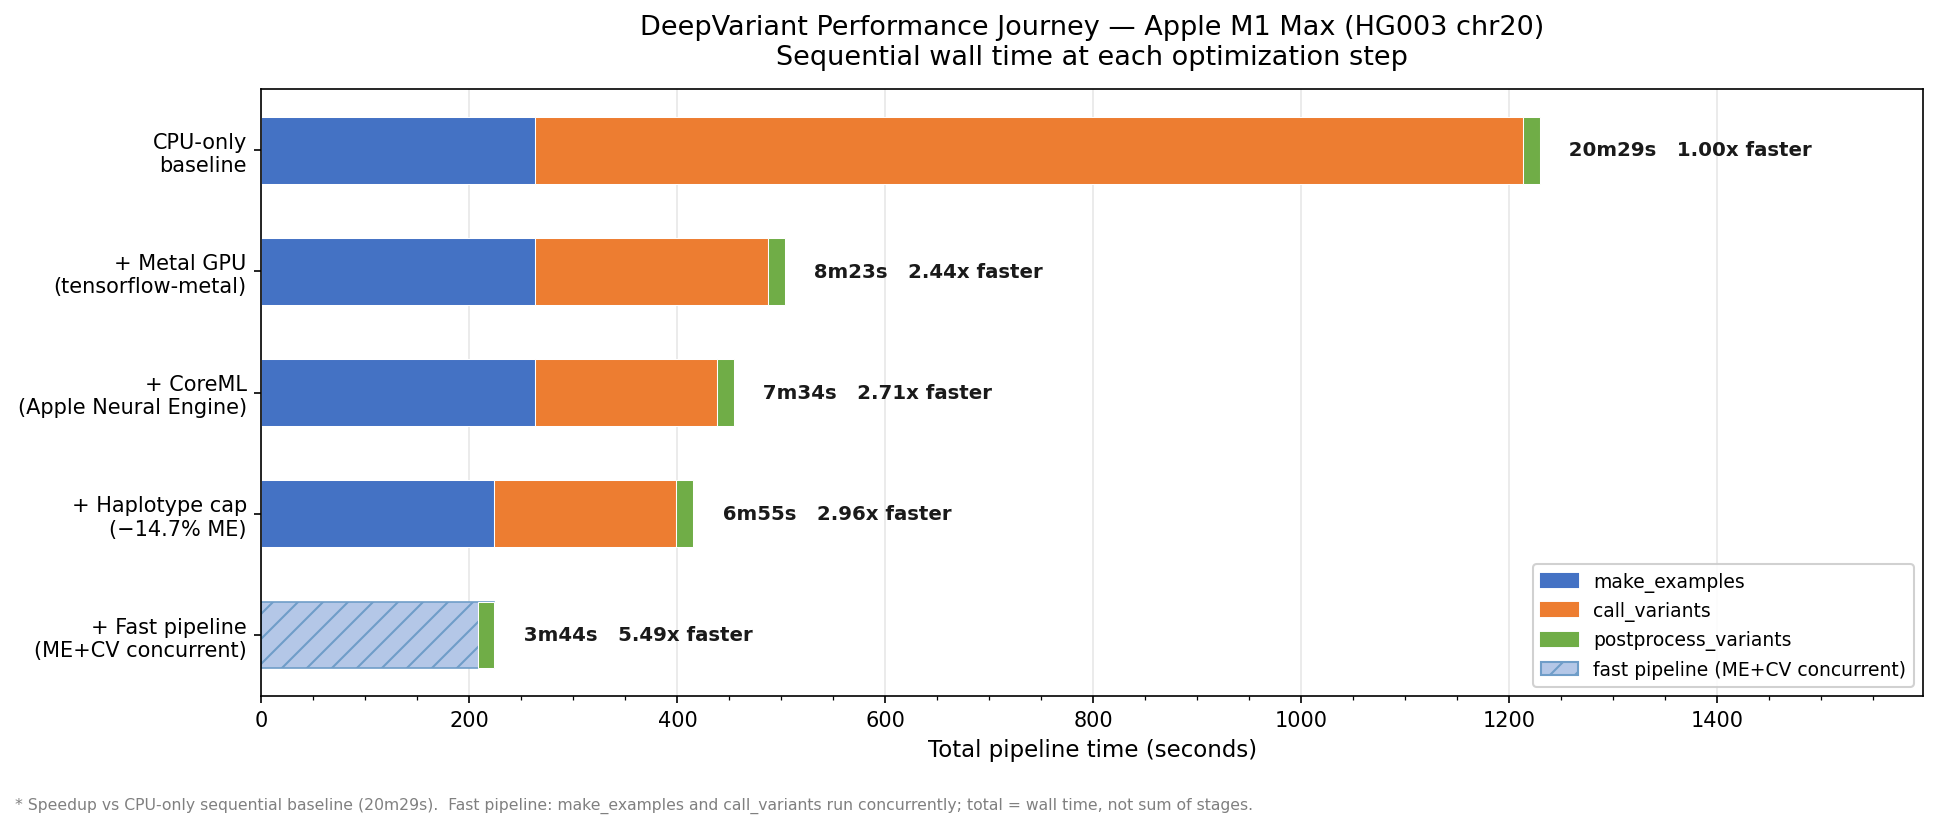
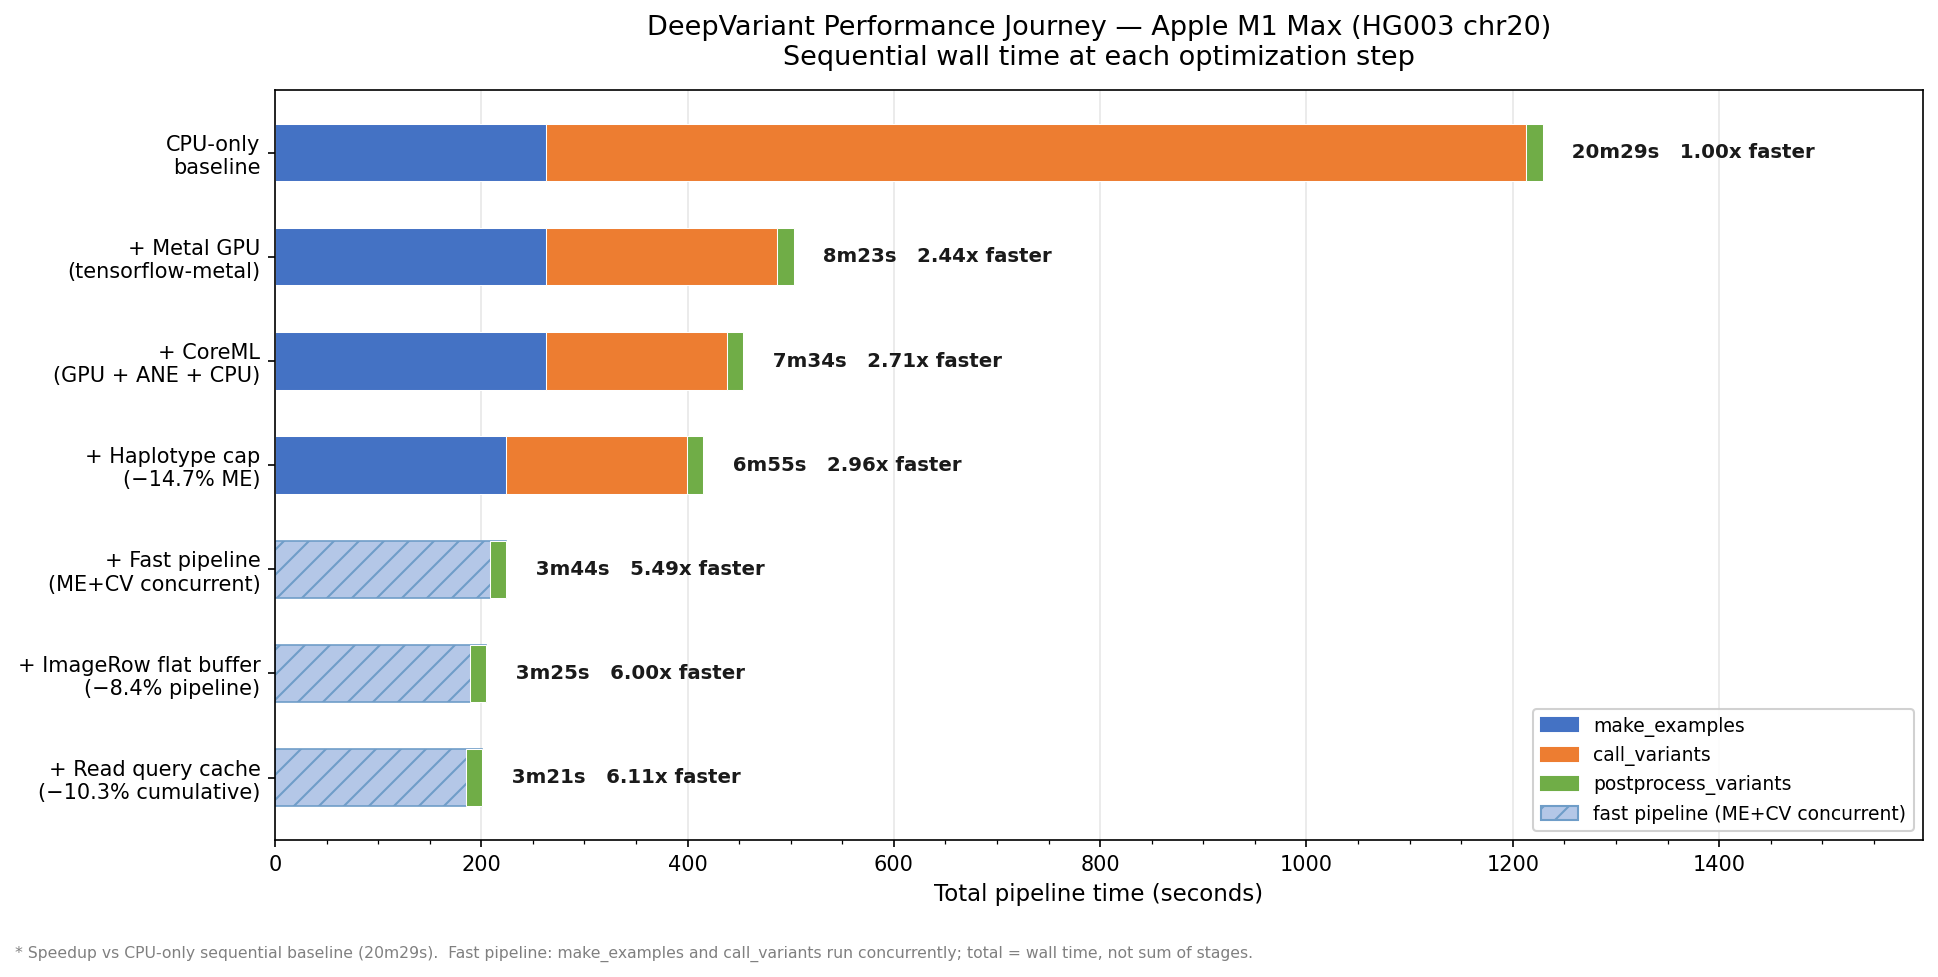
Update README charts with P1-B and P1-E optimization steps
Regenerate all three charts to include steps 5 (ImageRow flat buffer)
and 6 (read query cache). Platform comparison now shows 201s fast
pipeline total (6.11x vs CPU-only baseline).

[infra]

diff --git a/scripts/generate_readme_charts.py b/scripts/generate_readme_charts.py
@@ -33,14 +33,15 @@ import numpy as np
 STEPS = [
     {"label": "CPU-only\nbaseline",                 "me": 263, "cv": 950, "pp": 16, "fp": False},
     {"label": "+ Metal GPU\n(tensorflow-metal)",     "me": 263, "cv": 224, "pp": 16, "fp": False},
-    {"label": "+ CoreML\n(GPU + Neural Engine)",      "me": 263, "cv": 175, "pp": 16, "fp": False},
+    {"label": "+ CoreML\n(GPU + ANE + CPU)",          "me": 263, "cv": 175, "pp": 16, "fp": False},
     {"label": "+ Haplotype cap\n(−14.7% ME)",        "me": 224, "cv": 175, "pp": 16, "fp": False},
-    {"label": "+ Fast pipeline\n(ME+CV concurrent)", "me": 224, "cv": 175, "pp": 16, "fp": True},
+    {"label": "+ Fast pipeline\n(ME+CV concurrent)", "me": 224, "cv": 175, "pp": 16, "fp": True, "fp_total": 224},
+    {"label": "+ ImageRow flat buffer\n(−8.4% pipeline)", "me": 205, "cv": 175, "pp": 16, "fp": True, "fp_total": 205},
+    {"label": "+ Read query cache\n(−10.3% cumulative)", "me": 201, "cv": 175, "pp": 16, "fp": True, "fp_total": 201},
 ]
 
-# Measured total wall time for the fast pipeline + CoreML + haplotype cap run.
-# Filled in from benchmark.sh --use-coreml --fast-pipeline after the haplotype cap commit.
-FAST_PIPELINE_TOTAL = 224  # seconds (measured: benchmark.sh --use-coreml --fast-pipeline, post-haplotype-cap)
+# Default fast pipeline total (used when step lacks fp_total field).
+FAST_PIPELINE_TOTAL = 201  # seconds (measured: benchmark.sh after P1-B + P1-E optimizations)
 
 # CPU-only sequential total (used as speedup denominator)
 CPU_ONLY_TOTAL = STEPS[0]["me"] + STEPS[0]["cv"] + STEPS[0]["pp"]  # 1229s
@@ -109,20 +110,21 @@ def format_time(seconds):
 def plot_optimization_waterfall(output_path, show=False, dpi=150):
     """Stacked horizontal bars showing cumulative optimization journey."""
     n = len(STEPS)
-    fig, ax = plt.subplots(figsize=(13, 5.5))
+    fig, ax = plt.subplots(figsize=(13, 6.5))
     bar_height = 0.55
 
     for i, step in enumerate(STEPS):
         if step["fp"]:
+            fp_total = step.get("fp_total", FAST_PIPELINE_TOTAL)
             # Fast pipeline: single hatched bar for the measured wall time
-            ax.barh(i, FAST_PIPELINE_TOTAL, bar_height,
+            ax.barh(i, fp_total, bar_height,
                     color=COLOR_FP, hatch="//", edgecolor="#6F9DC8", linewidth=0.8,
                     label="ME + CV (concurrent)" if i == n - 1 else None)
             # Postprocess segment at the far right (always sequential)
             ax.barh(i, step["pp"], bar_height,
-                    left=FAST_PIPELINE_TOTAL - step["pp"],
+                    left=fp_total - step["pp"],
                     color=COLOR_PP, edgecolor="white", linewidth=0.5)
-            total = FAST_PIPELINE_TOTAL
+            total = fp_total
         else:
             total = step["me"] + step["cv"] + step["pp"]
             ax.barh(i, step["me"], bar_height, color=COLOR_ME,
@@ -191,14 +193,15 @@ def plot_optimization_waterfall(output_path, show=False, dpi=150):
 def plot_platform_comparison(output_path, show=False, dpi=150):
     """Horizontal bar chart: M1 Max vs GCP — includes measured L4 GPU data."""
     m1_sequential = STEPS[3]["me"] + STEPS[3]["cv"] + STEPS[3]["pp"]  # 415s
+    m1_fp_total = STEPS[-1].get("fp_total", FAST_PIPELINE_TOTAL)  # latest fast pipeline total
 
     # Ordered fastest → slowest (top → bottom when axis is inverted)
     platforms = [
         # (label, seconds, color, style, annotation)
         ("GCP n2-standard-96\n(96 vCPU, 12× cores, sequential)",
          GCP_96_CHR20, "#95A5A6", "normal", "12× more cores"),
-        ("Apple M1 Max — fast pipeline\n(CoreML + haplotype cap)",
-         FAST_PIPELINE_TOTAL, "#2ECC71", "bold", None),
+        ("Apple M1 Max — fast pipeline\n(CoreML + hap cap + flat buffer + query cache)",
+         m1_fp_total, "#2ECC71", "bold", None),
         ("Apple M1 Max — sequential\n(CoreML + haplotype cap)",
          m1_sequential, "#3498DB", "normal", None),
         ("GCP Cloud Run + L4 GPU\n(8 vCPU, 24 GB VRAM) ★ DIRECTLY MEASURED",
@@ -230,10 +233,10 @@ def plot_platform_comparison(output_path, show=False, dpi=150):
     fp_idx = 1  # fast pipeline row index
     seq_idx = 2  # sequential row index
     l4_idx  = 3  # L4 GPU row index
-    speedup_fp  = GCP_16_CHR20_MEASURED / FAST_PIPELINE_TOTAL   # 3.88×
-    speedup_seq = GCP_16_CHR20_MEASURED / m1_sequential          # 2.09×
-    speedup_l4  = GCP_L4_TOTAL / FAST_PIPELINE_TOTAL             # M1 vs L4 total
-    speedup_gpu = GCP_16_GPU_EST / FAST_PIPELINE_TOTAL           # M1 vs P100 est.
+    speedup_fp  = GCP_16_CHR20_MEASURED / m1_fp_total              # 4.32×
+    speedup_seq = GCP_16_CHR20_MEASURED / m1_sequential            # 2.09×
+    speedup_l4  = GCP_L4_TOTAL / m1_fp_total                       # M1 vs L4 total
+    speedup_gpu = GCP_16_GPU_EST / m1_fp_total                     # M1 vs P100 est.
 
     # Callout box — placed to the right of the M1 Max fast pipeline bar at the same row.
     # xlim is expanded to 1.55× GCP-CPU to give enough room for the box without crowding.
@@ -241,7 +244,7 @@ def plot_platform_comparison(output_path, show=False, dpi=150):
         f"  {speedup_fp:.2f}× faster than GCP 16-vCPU (measured)\n"
         f"  {speedup_l4:.2f}× faster than GCP L4 GPU (measured)\n"
         f"  {speedup_gpu:.2f}× faster than GCP P100 GPU (est.)",
-        xy=(FAST_PIPELINE_TOTAL, fp_idx),
+        xy=(m1_fp_total, fp_idx),
         xytext=(GCP_16_CHR20_MEASURED * 0.62, fp_idx),
         fontsize=8.5, fontweight="bold", color="#155724",
         va="center",
@@ -304,7 +307,7 @@ GCP_L4_TIME_S    = 584       # measured
 GCP_L4_PER_SAMPLE = (8 * 0.000080 + 32 * 0.0000090 + 0.000187) * GCP_L4_TIME_S   # ~$0.651
 
 # Apple Silicon marginal cost: electricity only (~70W × time × $0.15/kWh)
-M1_ELEC_PER_SAMPLE = 0.070 * (224 / 3600) * 0.15   # ~$0.00065 ≈ $0 effectively
+M1_ELEC_PER_SAMPLE = 0.070 * (201 / 3600) * 0.15   # ~$0.00058 ≈ $0 effectively
 
 
 def plot_cost_comparison(output_path, show=False, dpi=150):
@@ -385,7 +388,7 @@ def plot_cost_comparison(output_path, show=False, dpi=150):
         0.01, 0.01,
         "GCP pricing: on-demand us-central1 (March 2026). n2-standard-16: $0.777/hr, measured 868s/sample. "
         "Cloud Run L4: 8 vCPU ($0.000080/vCPU/s) + 32 GiB ($0.0000090/GiB/s) + L4 ($0.000187/GPU/s), measured 584s/sample. "
-        "Apple Silicon marginal cost: electricity only (~70W × 224s × $0.15/kWh ≈ $0.001/sample). "
+        "Apple Silicon marginal cost: electricity only (~70W × 201s × $0.15/kWh ≈ $0.001/sample). "
         "Hardware prices: used market estimates (March 2026). Preemptible/spot VMs reduce GCP costs ~60–80% (with interruption risk).",
         fontsize=7.0, color="gray", ha="left", wrap=True,
     )
